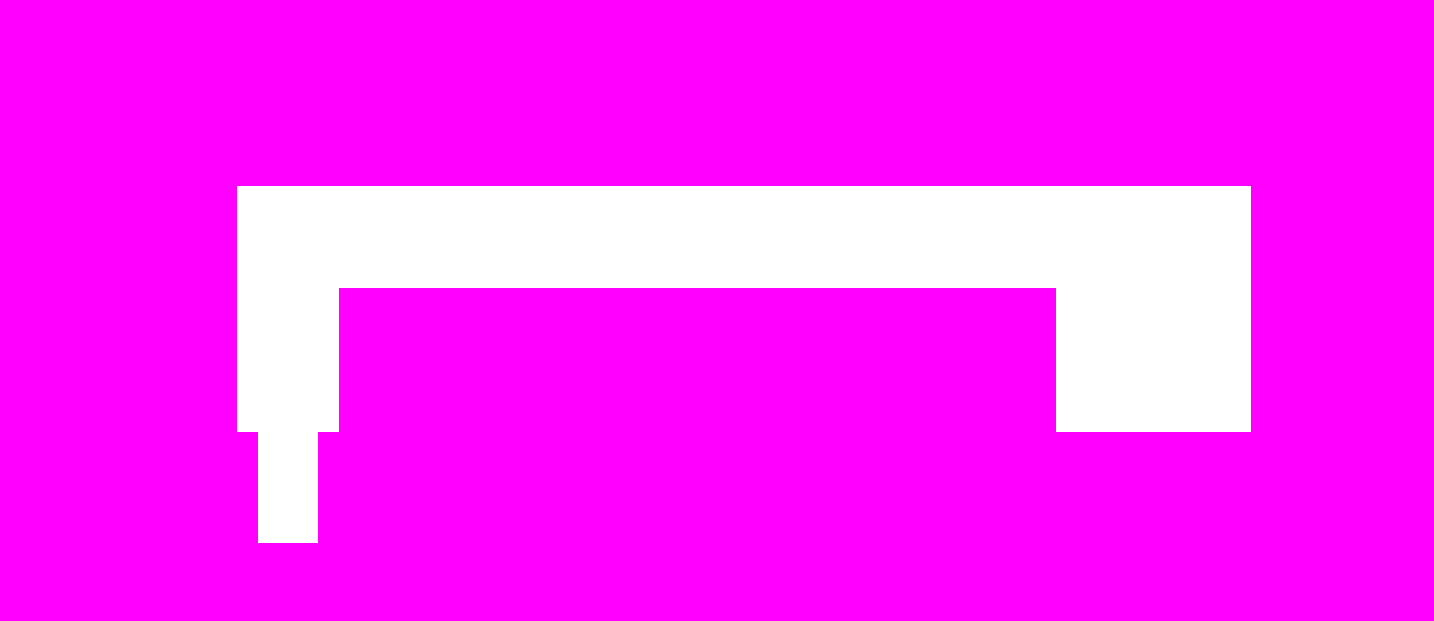
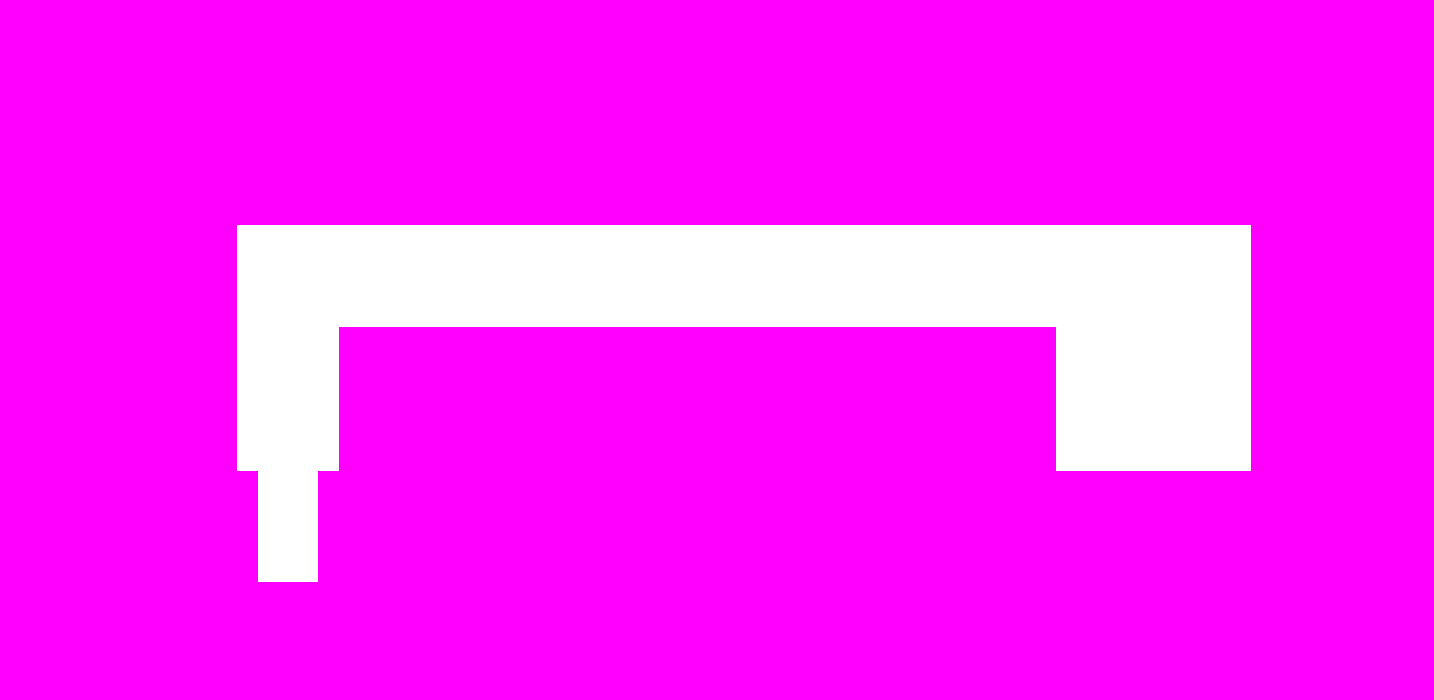
feat: implement castle under water gamemode link fall state machine(no leak, release check)

diff --git a/LinkToThePast/Zelda/CastleUnderWaterGameMode.cpp b/LinkToThePast/Zelda/CastleUnderWaterGameMode.cpp
@@ -37,7 +37,7 @@ void ACastleUnderWaterGameMode::BeginPlay()
 	BeginPlayEnemyActor();
 	BeginPlayUI();
 
-	TimeEventer.PushEvent(1.0f, [this]()
+	TimeEventer.PushEvent(0.2f, [this]()
 		{
 			ChangeState(ECastleUnderWaterState::LINK_FALL);
 		}
@@ -50,7 +50,7 @@ void ACastleUnderWaterGameMode::BeginPlayRoomActor()
 	Roomes.reserve(1);
 	RoomDataes.reserve(1);
 
-	RoomDataes.push_back({ { 0, 0 } ,{ 1434, 621 } });
+	RoomDataes.push_back({ { 0, 0 } ,{ 1434, 700 } });
 
 	CreateRoomActor("CastleUnderWater", 0);
 
@@ -62,6 +62,7 @@ void ACastleUnderWaterGameMode::BeginPlayEnvActor()
 	{
 		LinkFather = GetWorld()->SpawnActor<ALinkFather>();
 		LinkFather->SetActorLocation({ 596, 224 });
+		LinkFather->ChangeState(ELinkFatherState::DEATH_WEAPON);
 		LinkFather->SetActive(true);
 	}
 }
@@ -69,8 +70,6 @@ void ACastleUnderWaterGameMode::BeginPlayEnvActor()
 void ACastleUnderWaterGameMode::Tick(float DeltaTime)
 {
 	AZeldaGameMode::Tick(DeltaTime);
-
-	//StartFsm.Update(DeltaTime);
 
 	switch (CurState)
 	{
@@ -98,7 +97,7 @@ void ACastleUnderWaterGameMode::StartFallLink()
 void ACastleUnderWaterGameMode::FallLink(float DeltaTime)
 {
 	CurTime += DeltaTime;
-	Player->SetActorLocation(FVector2D::LerpClimp(LinkStartLocation, LinkDestLocation, CurTime / 2.0f));
+	Player->SetActorLocation(FVector2D::LerpClimp(LinkStartLocation, LinkDestLocation, CurTime / 1.0f));
 
 	if (UEngineMath::Abs(Player->GetActorLocation().Y - LinkDestLocation.Y) < 0.1f)
 	{

diff --git a/LinkToThePast/Zelda/LinkFather.cpp b/LinkToThePast/Zelda/LinkFather.cpp
@@ -35,7 +35,7 @@ ALinkFather::~ALinkFather()
 void ALinkFather::BeginPlay()
 {
 	Super::BeginPlay();
-	ChangeState(ELinkFatherState::SIT_DOWN);
+	//ChangeState(ELinkFatherState::SIT_DOWN);
 }
 
 void ALinkFather::Tick(float DeltaTime)
@@ -55,6 +55,12 @@ void ALinkFather::Tick(float DeltaTime)
 		break;
 	case ELinkFatherState::MOVE_DOWN:
 		MoveDown(DeltaTime);
+		break;
+	case ELinkFatherState::DEATH_WEAPON:
+		DeathWeapon(DeltaTime);
+		break;
+	case ELinkFatherState::DEATH_NONWEAPON:
+		DeathNoneWeapon(DeltaTime);
 		break;
 	default:
 		break;
@@ -107,6 +113,24 @@ void ALinkFather::MoveDown(float DeltaTime)
 	SetActorLocation(FVector2D::LerpClimp(StartLocation, DestLocation, CurTime / 3.0f));
 }
 
+void ALinkFather::StartDeathWeapon()
+{
+	SpriteRenderer->ChangeAnimation("DeathWeapon");
+}
+
+void ALinkFather::DeathWeapon(float DeltaTime)
+{
+}
+
+void ALinkFather::StartDeathNoneWeapon()
+{
+	SpriteRenderer->ChangeAnimation("DeathNoneWeapon");
+}
+
+void ALinkFather::DeathNoneWeapon(float DeltaTime)
+{
+}
+
 void ALinkFather::ChangeState(ELinkFatherState State)
 {
 	if (State == CurState) return;
@@ -124,6 +148,12 @@ void ALinkFather::ChangeState(ELinkFatherState State)
 		break;
 	case ELinkFatherState::MOVE_DOWN:
 		StartMoveDown();
+		break;
+	case ELinkFatherState::DEATH_WEAPON:
+		StartDeathWeapon();
+		break;
+	case ELinkFatherState::DEATH_NONWEAPON:
+		StartDeathNoneWeapon();
 		break;
 	default:
 		break;

diff --git a/LinkToThePast/Zelda/LinkFather.h b/LinkToThePast/Zelda/LinkFather.h
@@ -9,7 +9,9 @@ enum class ELinkFatherState
 	SIT_DOWN,
 	SIT_LEFT,
 	MOVE_LEFT,
-	MOVE_DOWN
+	MOVE_DOWN,
+	DEATH_WEAPON,
+	DEATH_NONWEAPON
 };
 
 /**
@@ -40,6 +42,12 @@ public:
 
 	void StartMoveDown();
 	void MoveDown(float DeltaTime);
+
+	void StartDeathWeapon();
+	void DeathWeapon(float DeltaTime);
+
+	void StartDeathNoneWeapon();
+	void DeathNoneWeapon(float DeltaTime);
 
 	void ChangeState(ELinkFatherState State);
 

diff --git a/LinkToThePast/Zelda/ZeldaCore.cpp b/LinkToThePast/Zelda/ZeldaCore.cpp
@@ -162,7 +162,7 @@ void UZeldaCore::BeginPlay()
 	UEngineAPICore::GetCore()->CreateLevel<ACastleDungeonGameMode, APlayerCharacter>("CastleDungeon");
 	UEngineAPICore::GetCore()->CreateLevel<ABossGameMode, APlayerCharacter>("Boss");
 
-	UEngineAPICore::GetCore()->OpenLevel("UnderWater");
+	UEngineAPICore::GetCore()->OpenLevel("LinkHouse");
 }
 
 void UZeldaCore::Tick()

diff --git a/LinkToThePast/Zelda/PlayerCharacter_1.StateMachine.cpp b/LinkToThePast/Zelda/PlayerCharacter_1.StateMachine.cpp
@@ -683,6 +683,7 @@ void APlayerCharacter::Fall(float DeltaTime)
 
 void APlayerCharacter::TurnFall(float DeltaTime)
 {
+	SetCameraLocationToPlayer();
 }
 
 void APlayerCharacter::EndAttack()
